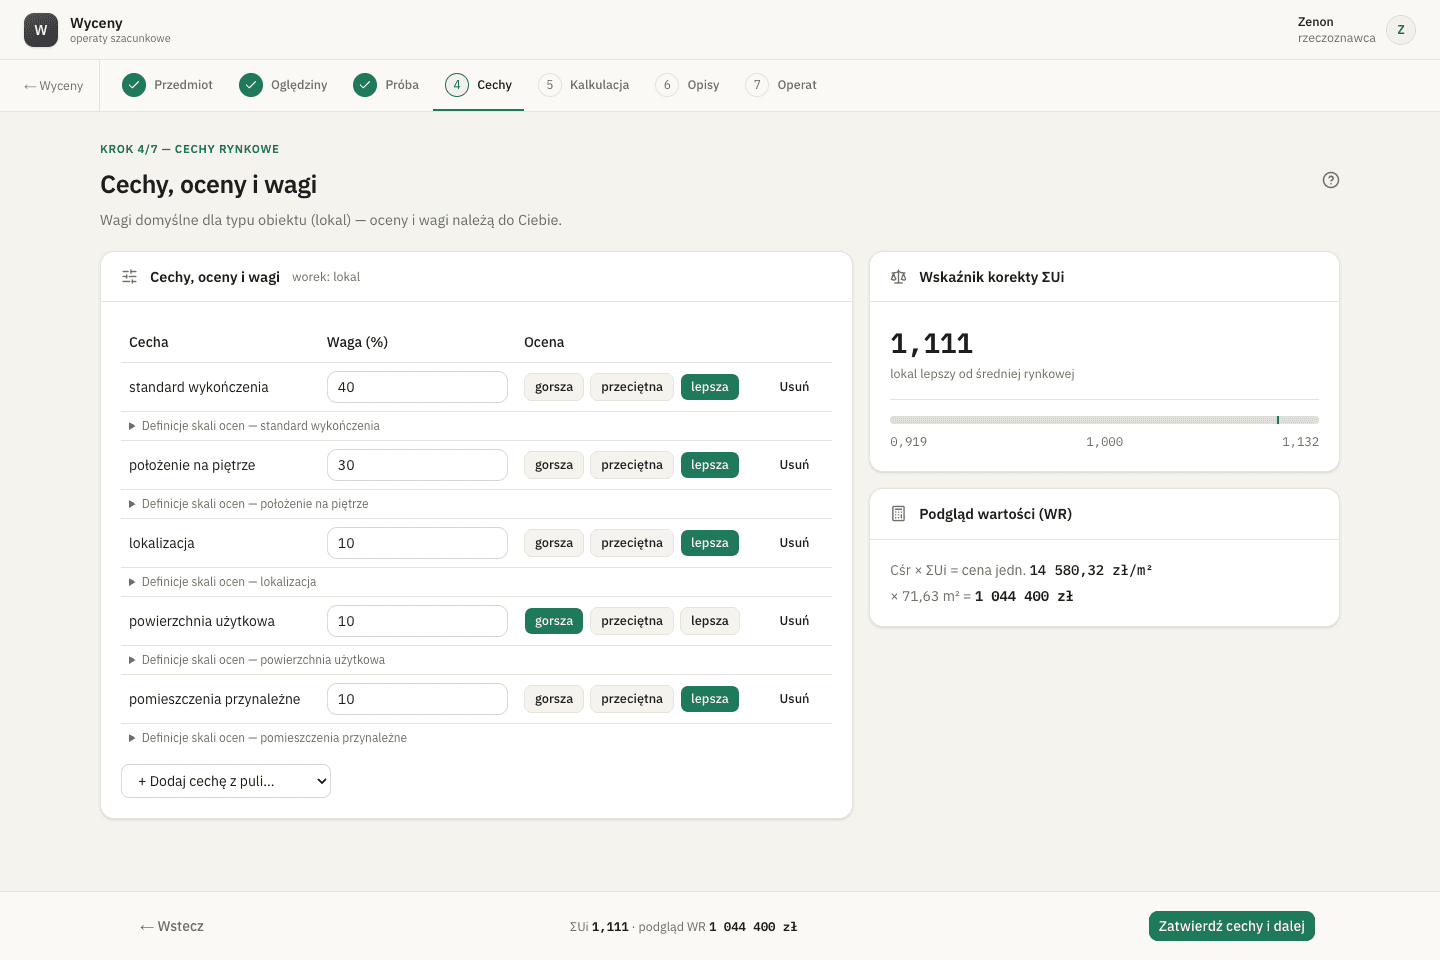
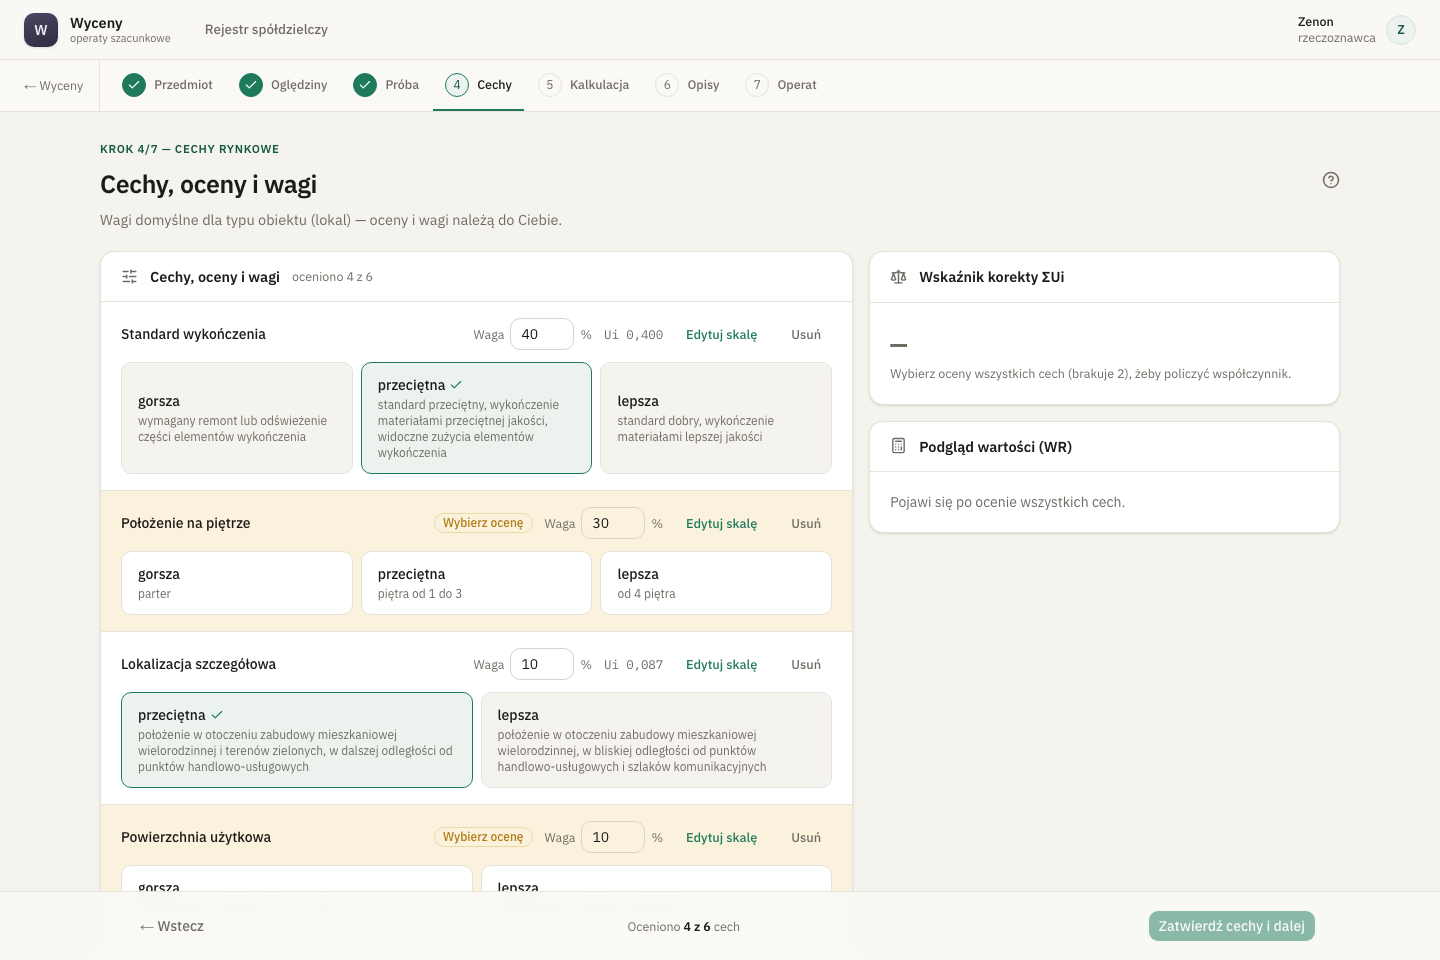
feat: blokady B-08…B-11 w approvalBlockers i Pomoc kroku 4 (ADR-016, FS.4)
- approvalBlockers: po bramce F-4, przed polami dokumentu — B-08 brak oceny,
  B-09 ocena na nieopisanym poziomie, B-10 < 2 opisane poziomy (waga > 0),
  B-11 szkic bez znacznika reguły; ścieżki features[i] / features → krok 4
- Pomoc: krok-4-cechy.mdx + nowy zrzut, krok-5-kalkulacja.mdx (Ui z pozycji),
  metoda-kcs.mdx (skala 2- i 3-poziomowa), zasady-zatwierdzania.mdx (B-08…B-11)

diff --git a/apps/web/tests/f4-approval-gate.test.ts b/apps/web/tests/f4-approval-gate.test.ts
@@ -8,7 +8,10 @@ import {
 import { documentFieldBlockers } from "../src/domain/document-model";
 import type { KwSnapshot } from "../src/domain/kw-snapshot";
 import { currentSectionFactsHashes } from "../src/domain/prose-hash";
-import { approvalBlockers } from "../src/domain/valuation";
+import { FEATURE_SCALE_RULE } from "../src/domain/feature-rules";
+import type { Feature } from "../src/domain/kcs";
+import { approvalBlockers, applyFeaturesUpdate, readFeatureScale } from "../src/domain/valuation";
+import { stepForBlockerPath } from "../src/domain/wizard";
 import type { Valuation } from "../src/ports/valuation";
 import { approvableInput, confirmedProse, confirmedProseFor } from "./fixtures/valuation-inputs";
 
@@ -749,5 +752,144 @@ describe("R-1: approvalBlockers — pin kolejności i kształtów blokad", () =>
     }
     // The stale case really is stale: a per-section blocker, not the missing-snapshot one.
     expect(paths.some((p) => p.startsWith("prose."))).toBe(true);
+  });
+});
+
+/**
+ * B-08…B-11 (ADR-016 reg. 3–4, spec §4): the rating scale blocks approval —
+ * a missing rating, a rating the scale does not describe, a weighted feature
+ * with fewer than two described levels, and a draft whose ratings were
+ * confirmed under the fixed-key rule. Every one links to step 4.
+ */
+describe("B-08…B-11: rating scale blockers (ADR-016)", () => {
+  const LEPSZA_GORSZA = { lepsza: "poniżej 47 m²", gorsza: "47 m² i więcej" };
+  const THREE = { lepsza: "lepsza", przecietna: "przeciętna", gorsza: "gorsza" };
+
+  function draft(features: Feature[], featureScaleRule?: 2): Valuation {
+    const input = approvableInput("test-user");
+    return {
+      id: "valuation-b08",
+      address: input.address,
+      area: input.area,
+      wr: null,
+      inputs: { ...input.inputs!, features, featureScaleRule },
+      amountInWords: null,
+      docUrl: null,
+      docxUrl: null,
+      purpose: input.purpose ?? null,
+      propertyRight: "wlasnosc_lokalu",
+      kwNumber: input.kwNumber ?? null,
+      client: input.client ?? null,
+      inspectionDate: input.inspectionDate ?? null,
+      ownerId: "test-user",
+      status: "in_progress",
+      approvedAt: null,
+      signedAt: null,
+      supersedesId: null,
+      mapsFrozenFor: null,
+      createdAt: new Date("2026-09-15T00:00:00.000Z"),
+    };
+  }
+
+  const featureBlockers = (v: Valuation) =>
+    approvalBlockers(v, {}).filter((b) => b.code != null && /^B-(08|09|10|11)$/.test(b.code));
+
+  /** The 14.09 case: powierzchnia rated „przeciętna” on a lepsza/gorsza scale, saved before the rule. */
+  const reported = () =>
+    draft([
+      { name: "Lokalizacja szczegółowa", weight: 0.5, rating: "przecietna", definitions: THREE },
+      {
+        name: "Powierzchnia użytkowa",
+        weight: 0.5,
+        rating: "przecietna",
+        definitions: LEPSZA_GORSZA,
+      },
+    ]);
+
+  it("as reported, straight from the snapshot: B-09 on powierzchnia and B-11", () => {
+    expect(featureBlockers(reported())).toEqual([
+      {
+        path: "features[1]",
+        code: "B-09",
+        label:
+          "Ocena „przeciętna” cechy „Powierzchnia użytkowa” nie ma opisu w skali — opisz ten poziom albo zmień ocenę.",
+      },
+      {
+        path: "features",
+        code: "B-11",
+        label: "Potwierdź oceny cech — zmieniła się zasada liczenia skali dwupoziomowej.",
+      },
+    ]);
+  });
+
+  it("as reported, after the draft read migration: B-08 on powierzchnia and B-11", () => {
+    expect(featureBlockers(readFeatureScale(reported())).map((b) => [b.path, b.code])).toEqual([
+      ["features[1]", "B-08"],
+      ["features", "B-11"],
+    ]);
+  });
+
+  it("B-08: a feature without a rating", () => {
+    const v = draft([{ name: "Standard", weight: 1, rating: null, definitions: THREE }], 2);
+    expect(featureBlockers(v)).toEqual([
+      { path: "features[0]", code: "B-08", label: "Wybierz ocenę cechy „Standard”." },
+    ]);
+  });
+
+  it("B-10: a weighted feature with fewer than two described levels", () => {
+    const v = draft(
+      [{ name: "Dodatkowe", weight: 1, rating: "lepsza", definitions: { lepsza: "ogródek" } }],
+      2,
+    );
+    expect(featureBlockers(v)).toEqual([
+      {
+        path: "features[0]",
+        code: "B-10",
+        label: "Cecha „Dodatkowe” musi mieć opisane co najmniej dwa poziomy.",
+      },
+    ]);
+  });
+
+  it("after the step-4 save with every rating on its scale: no rating scale blockers", () => {
+    const saved = applyFeaturesUpdate(readFeatureScale(reported()), {
+      features: [
+        { name: "Lokalizacja szczegółowa", weight: 0.5, rating: "przecietna", definitions: THREE },
+        {
+          name: "Powierzchnia użytkowa",
+          weight: 0.5,
+          rating: "lepsza",
+          definitions: LEPSZA_GORSZA,
+        },
+      ],
+      provenance: {
+        weights: { source: "rzeczoznawca", status: "confirmed" },
+        ratings: { source: "rzeczoznawca", status: "confirmed" },
+        featureDefs: { source: "rzeczoznawca", status: "confirmed" },
+      },
+    });
+    expect(saved.inputs!.featureScaleRule).toBe(FEATURE_SCALE_RULE);
+    expect(featureBlockers(saved)).toEqual([]);
+  });
+
+  it("lands between the F-4 gate and the document fields", () => {
+    const v: Valuation = {
+      ...reported(),
+      purpose: null,
+      inputs: { ...reported().inputs!, comparables: [] },
+    };
+    const codesAndPaths = approvalBlockers(v, {}).map((b) => b.code ?? b.path);
+    expect(codesAndPaths).toEqual(["comparables", "B-09", "B-11", "purpose", "wr"]);
+  });
+
+  it("an approved valuation issued before the rule gets no B-11", () => {
+    expect(featureBlockers({ ...reported(), status: "approved" }).map((b) => b.code)).toEqual([
+      "B-09",
+    ]);
+  });
+
+  it("every rating scale blocker links to step 4", () => {
+    for (const b of featureBlockers(reported())) {
+      expect(stepForBlockerPath(b.path)?.n, b.path).toBe(4);
+    }
   });
 });

diff --git a/apps/web/src/domain/valuation.ts b/apps/web/src/domain/valuation.ts
@@ -1,6 +1,12 @@
 import { approvalGate, type Blocker, type GateOptions } from "./provenance";
 import { documentFieldBlockers } from "./document-model";
-import { FEATURE_SCALE_RULE, computeKcsOnScale, describedLevels, kcsReady } from "./feature-rules";
+import {
+  FEATURE_SCALE_RULE,
+  computeKcsOnScale,
+  describedLevels,
+  featureIssues,
+  kcsReady,
+} from "./feature-rules";
 import { isRegistrySourced, type Comparable, type KcsInput } from "./kcs";
 import type { PropertyRight } from "./property-right";
 import type { InputsProvenance } from "./provenance";
@@ -717,7 +723,35 @@ export function applyCalculationConfirm(v: Valuation): Valuation {
  */
 export function approvalBlockers(v: Valuation, ctx: GateOptions): Blocker[] {
   const gate = v.inputs ? approvalGate({ ...v.inputs, propertyRight: v.propertyRight }, ctx) : null;
-  return [...(gate && !gate.ok ? gate.blockers : []), ...documentFieldBlockers(v)];
+  return [
+    ...(gate && !gate.ok ? gate.blockers : []),
+    ...featureScaleBlockers(v),
+    ...documentFieldBlockers(v),
+  ];
+}
+
+/**
+ * B-08…B-11 (ADR-016 reg. 3–4, spec §4) — each feature's rating against its
+ * described scale, then the draft whose ratings were confirmed under the
+ * fixed-key rule and wait for the step-4 save to confirm them again.
+ */
+function featureScaleBlockers(v: Valuation): Blocker[] {
+  if (!v.inputs) return [];
+  const blockers: Blocker[] = v.inputs.features.flatMap((f, i) =>
+    featureIssues(f).map((issue) => ({ path: `features[${i}]`, ...issue })),
+  );
+  if (
+    v.status === "in_progress" &&
+    v.inputs.features.length > 0 &&
+    v.inputs.featureScaleRule !== FEATURE_SCALE_RULE
+  ) {
+    blockers.push({
+      path: "features",
+      code: "B-11",
+      label: "Potwierdź oceny cech — zmieniła się zasada liczenia skali dwupoziomowej.",
+    });
+  }
+  return blockers;
 }
 
 /**

diff --git a/apps/web/tests/valuation-lifecycle.test.ts b/apps/web/tests/valuation-lifecycle.test.ts
@@ -18,6 +18,7 @@ import {
 } from "../src/domain/valuation";
 import type { Valuation } from "../src/ports/valuation";
 import type { Comparable, KcsInput } from "../src/domain/kcs";
+import { THREE_LEVEL_SCALE } from "./fixtures/valuation-inputs";
 import { approvalGate, type InputsProvenance } from "../src/domain/provenance";
 import { confirmProseSnapshot, PROSE_SECTIONS } from "../src/domain/prose-snapshot";
 import { confirmedProse } from "./fixtures/valuation-inputs";
@@ -68,7 +69,16 @@ function rcnInputs(): KcsInput {
       transactionId: `tx-${i}`,
       status: "to_verify" as const,
     })),
-    features: [{ name: "standard", weight: 1, rating: "przecietna" as const }],
+    // A rating on its described scale, saved under the ADR-016 rule (B-08…B-11 clear).
+    features: [
+      {
+        name: "standard",
+        weight: 1,
+        rating: "przecietna" as const,
+        definitions: THREE_LEVEL_SCALE,
+      },
+    ],
+    featureScaleRule: 2,
     sampleMeta: {
       point: { x: 355300.15, y: 505330.31, source: "subject" as const },
       maxRadiusM: 3000,

diff --git a/apps/web/src/domain/wizard.ts b/apps/web/src/domain/wizard.ts
@@ -75,6 +75,9 @@ const BLOCKER_STEP: Record<string, number> = {
   "provenance.weights": 4,
   "provenance.ratings": 4,
   "provenance.featureDefs": 4,
+  // ADR-016: each feature's rating against its scale (B-08…B-10), and the
+  // ratings to confirm again under the rule (B-11).
+  features: 4,
   // Step 5 (Kalkulacja).
   wr: 5,
   // Step 6 (Opisy): the prose snapshot and each of its six sections.
